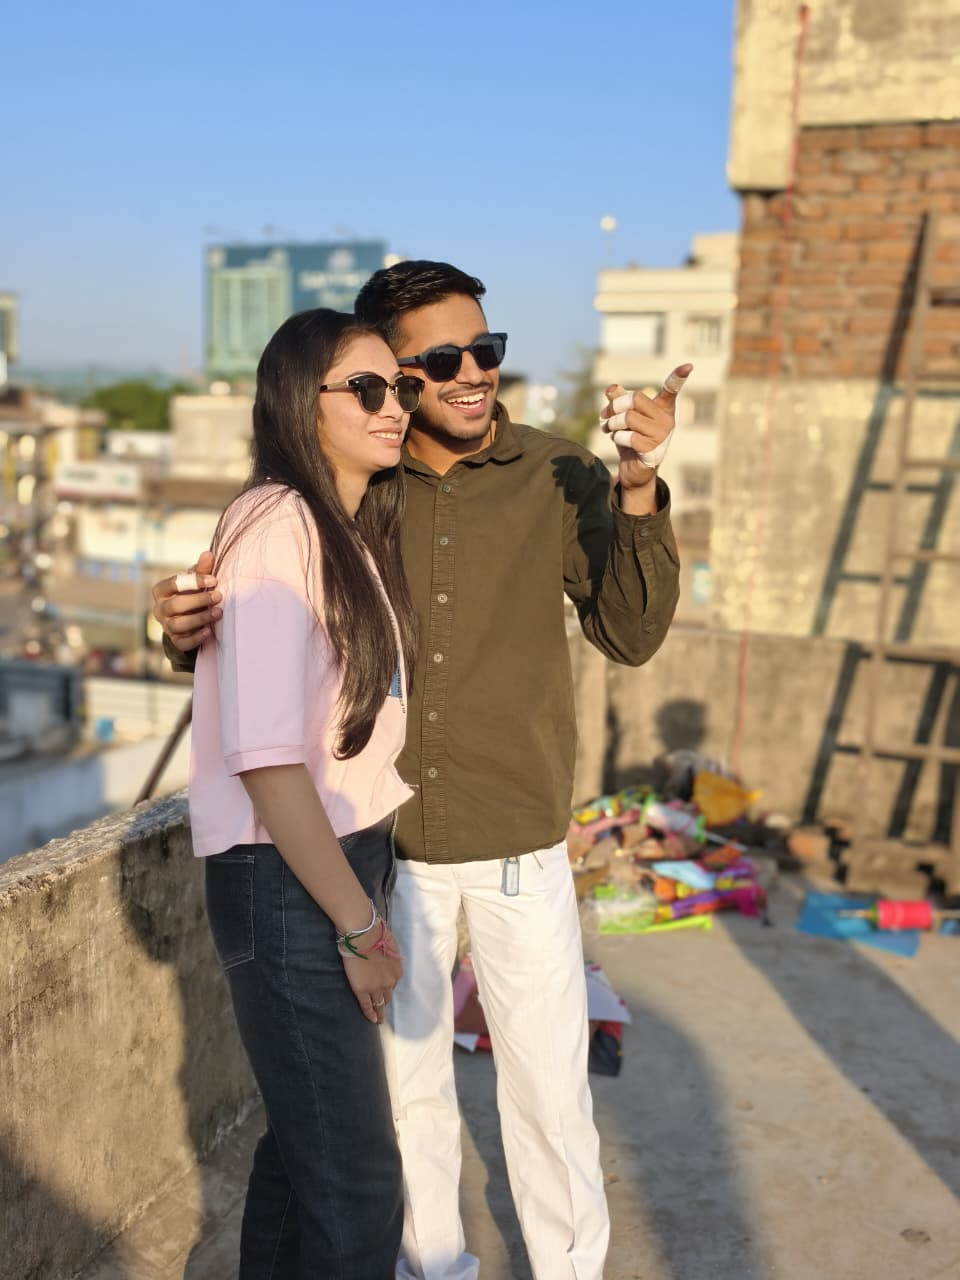
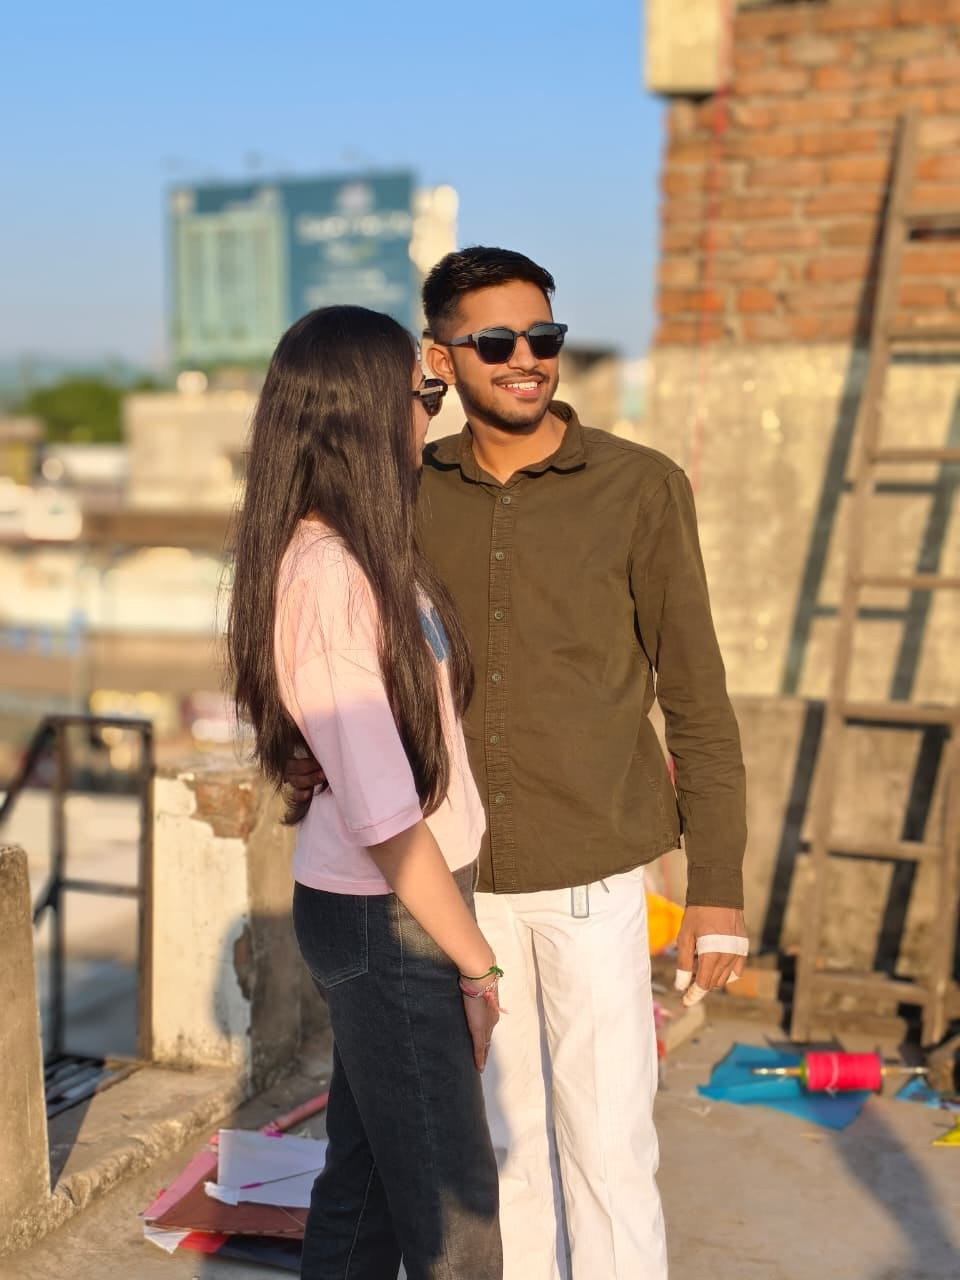
update the image and Text

diff --git a/index.html b/index.html
@@ -713,7 +713,7 @@ h1,h2,h3{font-family:var(--serif);font-weight:700;line-height:1.12;margin:0}
       <div class="entry-top"><small id="enId">Registry entry 01</small><span class="entry-type" id="enType">Official</span></div>
       <h3 id="enName">Gattu</h3>
       <p id="enText">The original and still the best.</p>
-      <div class="entry-meta"><span>Times used: <b>countless</b></span><span>Approved by: <b>me, always</b></span></div>
+      <div class="entry-meta"><span>Times used: <b>countless</b></span><span>Approved by: <b>Me, Always</b></span></div>
     </div>
     <p style="margin-top:22px"><button class="btn ghost small" id="randNick" type="button"><svg class="i" aria-hidden="true"><use href="#i-dice"/></svg> Pick a random name</button></p>
   </div>
@@ -756,10 +756,10 @@ h1,h2,h3{font-family:var(--serif);font-weight:700;line-height:1.12;margin:0}
       <h3 class="reveal" style="--rd:.1s">Dear Gattu,</h3>
       <p class="reveal" style="--rd:.25s">Happy birthday. I wanted to build you something that feels like us: a little silly, a little emotional, and completely yours.</p>
       <p class="reveal" style="--rd:.4s">Since 07 October 2019, you have turned ordinary days into stories I love telling. You make me laugh when I am trying to be serious, you calm me down when I am overthinking, and somehow even your sulking looks adorable.</p>
-      <p class="reveal" style="--rd:.55s">I never needed a perfect relationship. I needed you: the real you, stubborn, soft, funny and unforgettable. Every argument we solved and every sorry we said made me more sure that I chose right.</p>
+      <p class="reveal" style="--rd:.55s">I never needed a perfect relationship. I needed you: the real you, stubborn, soft, funny and unforgettable. Every argument we solved and every sorry(special for the previous talk) we said made me more sure that I chose right.</p>
       <p class="reveal" style="--rd:.7s">Whatever you wish for tonight, I hope it comes true. And if it takes a little help, you know exactly who will be standing next to you making it happen.</p>
       <p class="reveal" style="--rd:.85s">Happy birthday, my favorite person. I love you, today and always.</p>
-      <div class="sig reveal" style="--rd:1s">Yours, always</div>
+      <div class="sig reveal" style="--rd:1s">Yours, Sahil!</div>
     </article>
 
     <div class="cake-stage reveal">
